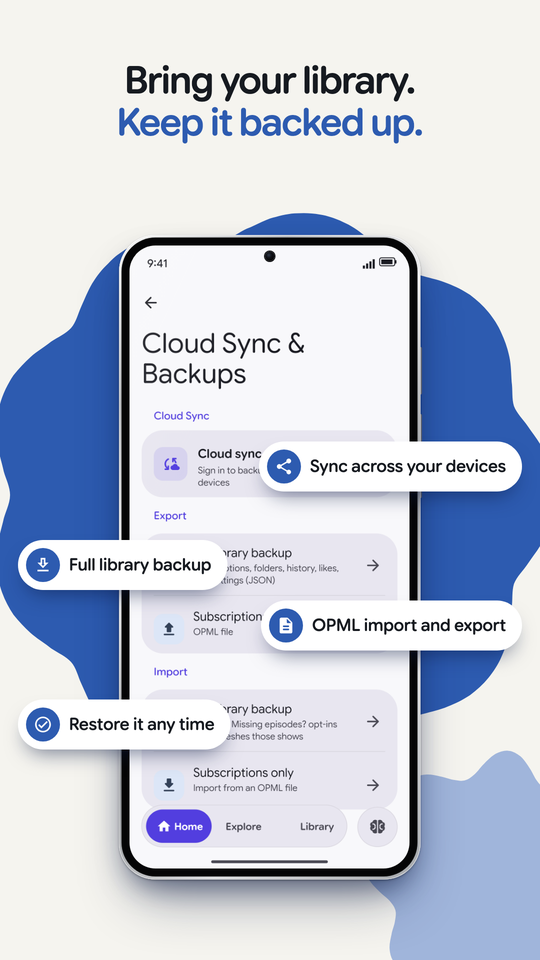
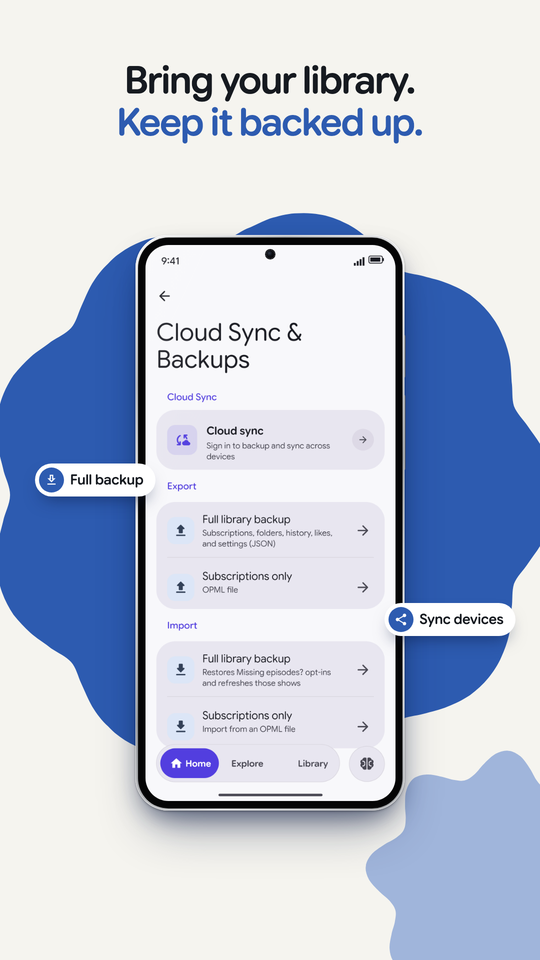
docs: refresh README screenshots
Show two compact feature labels on each screen, hung off the phone edge where nothing is covered.

Changed region(s): [[0.0296, 0.25, 0.9778, 0.9688], [0.5926, 0.5625, 0.6222, 0.5938], [0.4741, 0.25, 0.5037, 0.2812]]

diff --git a/README.md b/README.md
@@ -204,9 +204,9 @@ Then it stays quiet while you listen. Free, with no app ads and no paywalls.
 - **The boxlore brief.** An optional daily news episode, with sources.
 
 <p align="center">
-<img src="docs/images/brand/screens/lore.png?v=8af50774" width="30%" alt="Lore: a question card about Krakatoa that leads to an episode, with Play and Add to queue"/>&nbsp;
-<img src="docs/images/brand/screens/explore.png?v=f8e223e6" width="30%" alt="Explore: search by idea, picks for you, ideas for the time of day and top shows by region"/>&nbsp;
-<img src="docs/images/brand/screens/welcome.png?v=7414e7b8" width="30%" alt="Welcome: meet Echo, answer a few questions and get shows picked for you, or import your library"/>
+<img src="docs/images/brand/screens/lore.png?v=79d5674a" width="30%" alt="Lore: a question card about Krakatoa that leads to an episode, with Play and Add to queue"/>&nbsp;
+<img src="docs/images/brand/screens/explore.png?v=2aa448ee" width="30%" alt="Explore: search by idea, picks for you, ideas for the time of day and top shows by region"/>&nbsp;
+<img src="docs/images/brand/screens/welcome.png?v=57a3ef9c" width="30%" alt="Welcome: meet Echo, answer a few questions and get shows picked for you, or import your library"/>
 </p>
 
 <br/>
@@ -221,9 +221,9 @@ Then it stays quiet while you listen. Free, with no app ads and no paywalls.
 - **Ready before you go offline.** Smart Downloads get new episodes onto your phone.
 
 <p align="center">
-<img src="docs/images/brand/screens/home.png?v=8c60a071" width="30%" alt="boxlore Home: resume in one tap, with picks for you, Daily mix and Smart Downloads"/>&nbsp;
-<img src="docs/images/brand/screens/player.png?v=83a9636a" width="30%" alt="The boxlore player in the show’s colours, with 0.5× to 3× speed, a sleep timer, chapters, transcripts and Google Cast"/>&nbsp;
-<img src="docs/images/brand/screens/player_minimal.png?v=a4581961" width="30%" alt="The minimal player: a larger title, time left at a glance and big, easy controls"/>
+<img src="docs/images/brand/screens/home.png?v=ab41a46e" width="30%" alt="boxlore Home: resume in one tap, with picks for you, Daily mix and Smart Downloads"/>&nbsp;
+<img src="docs/images/brand/screens/player.png?v=6444ebf4" width="30%" alt="The boxlore player in the show’s colours, with 0.5× to 3× speed, a sleep timer, chapters, transcripts and Google Cast"/>&nbsp;
+<img src="docs/images/brand/screens/player_minimal.png?v=cb5eee8b" width="30%" alt="The minimal player: a larger title, time left at a glance and big, easy controls"/>
 </p>
 
 <br/>
@@ -240,9 +240,9 @@ Then it stays quiet while you listen. Free, with no app ads and no paywalls.
 - **And much, much more.** See [every feature](#every-feature).
 
 <p align="center">
-<img src="docs/images/brand/screens/home_styles.png?v=c6c701c7" width="30%" alt="Six Home styles: Block, Cover, Tide, Duotone, Halo and Marquee"/>&nbsp;
-<img src="docs/images/brand/screens/themes.png?v=290f25fa" width="30%" alt="The custom theme editor with a live preview in light and dark and any colour you like"/>&nbsp;
-<img src="docs/images/brand/screens/backup.png?v=54c018ca" width="30%" alt="Cloud sync and backups: full library backup, OPML import and export, and sync across your devices"/>
+<img src="docs/images/brand/screens/home_styles.png?v=db0c959c" width="30%" alt="Six Home styles: Block, Cover, Tide, Duotone, Halo and Marquee"/>&nbsp;
+<img src="docs/images/brand/screens/themes.png?v=794d792b" width="30%" alt="The custom theme editor with a live preview in light and dark and any colour you like"/>&nbsp;
+<img src="docs/images/brand/screens/backup.png?v=6fab5114" width="30%" alt="Cloud sync and backups: full library backup, OPML import and export, and sync across your devices"/>
 </p>
 
 <br/>
